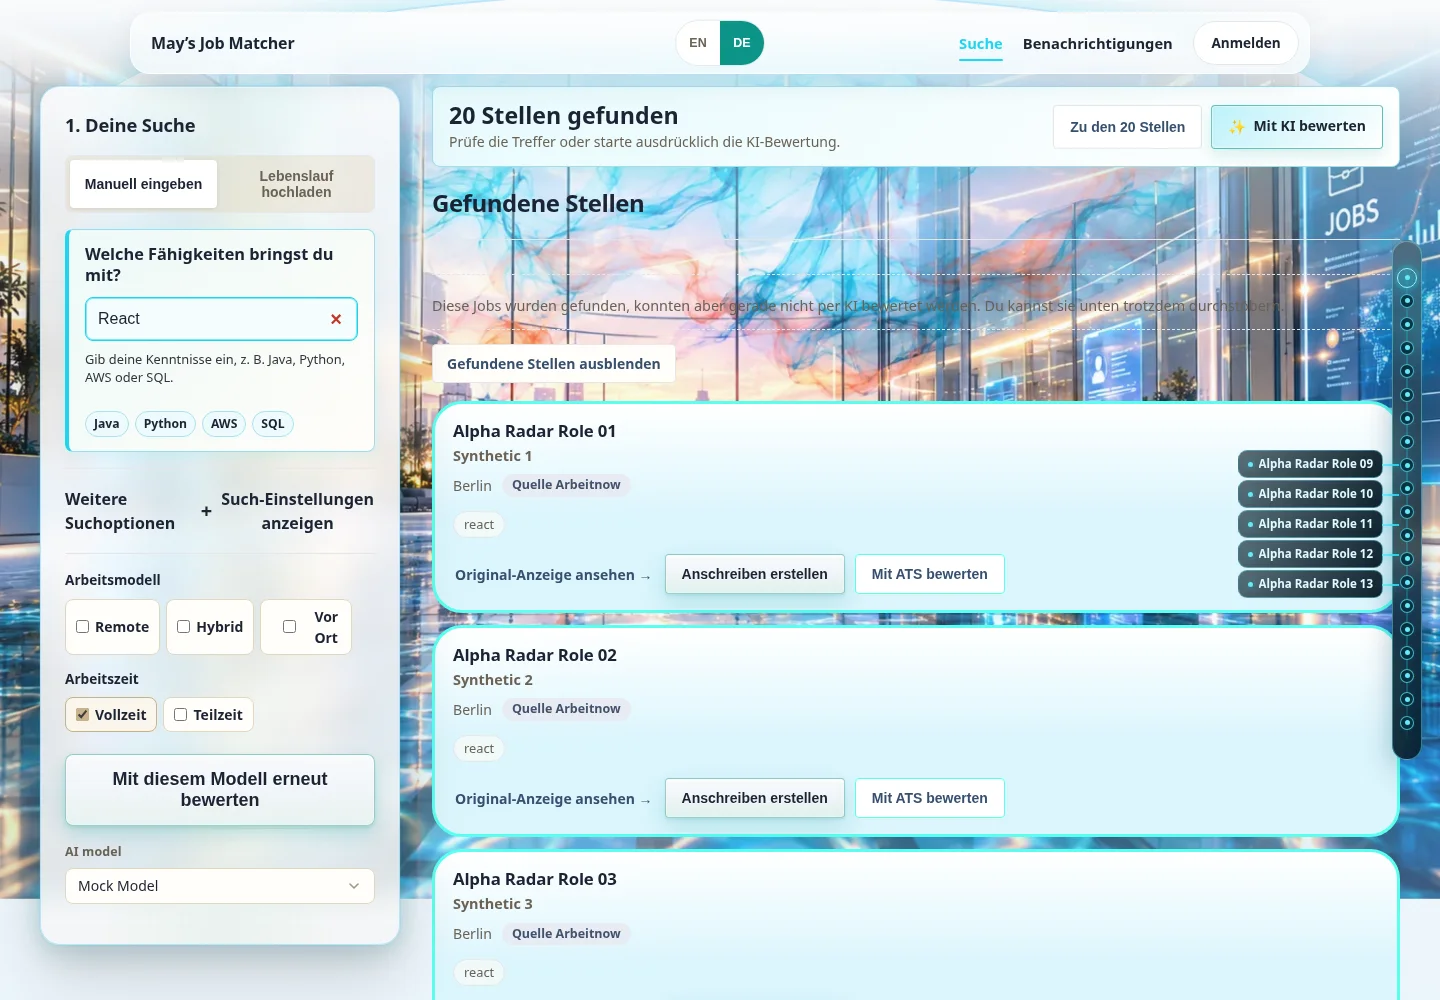
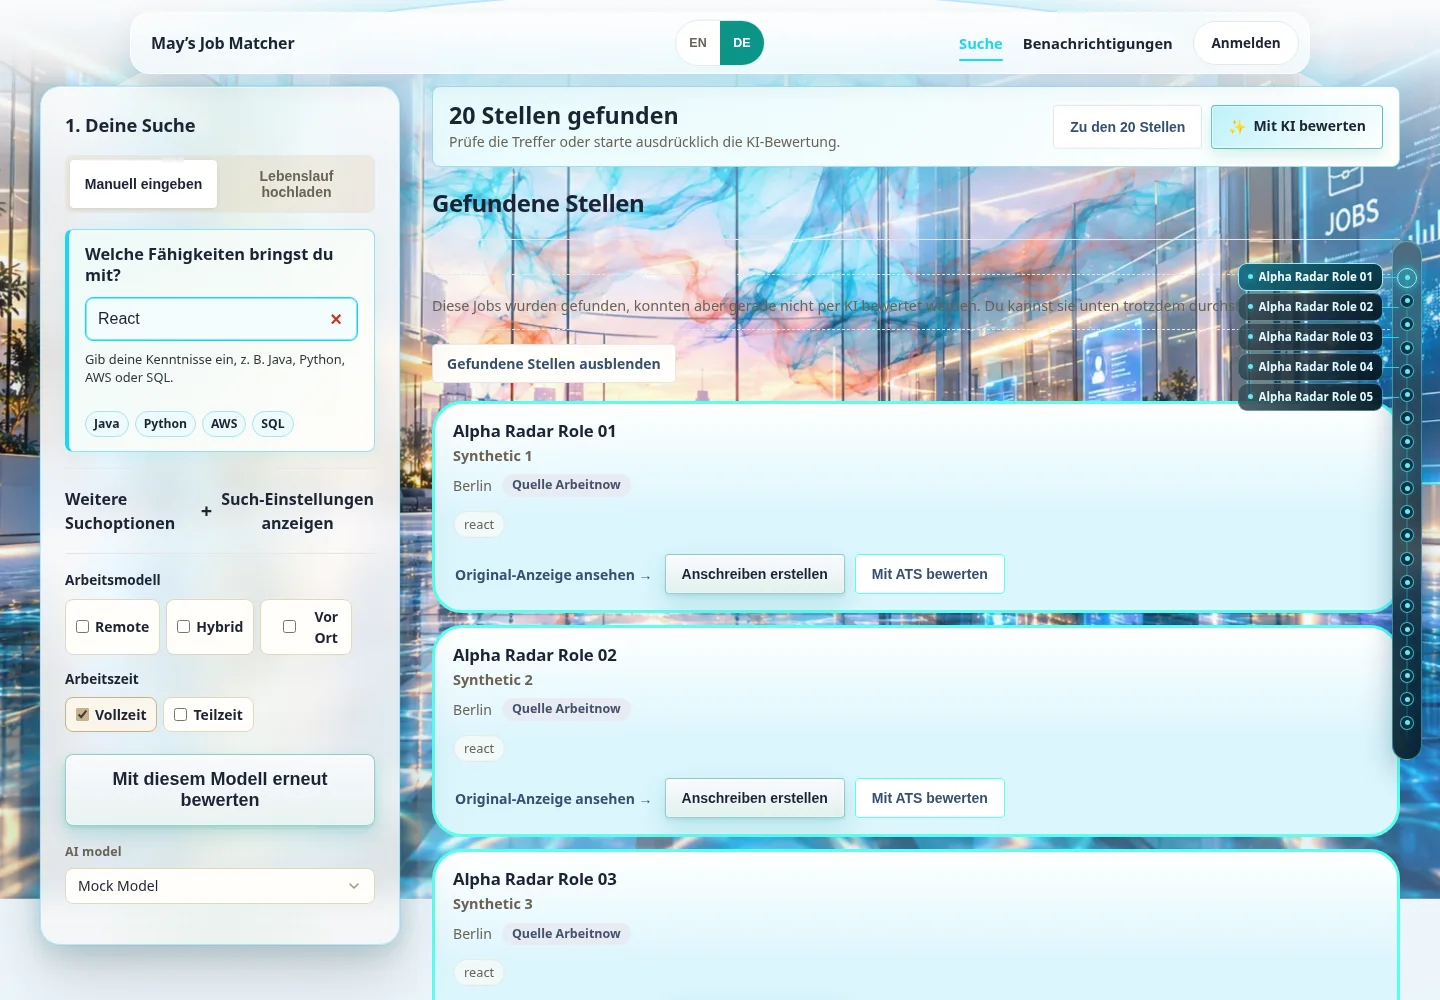
fix(search): make radar labels and mobile panel accessible

Changed region(s): [[0.8438, 0.248, 0.9688, 0.62]]

diff --git a/src/components/MatchRadar.tsx b/src/components/MatchRadar.tsx
@@ -49,6 +49,7 @@ function prefersReducedMotion(): boolean {
 export default function MatchRadar({ radarKey, onActivate }: Props) {
   const { t } = useLang();
   const railRef = useRef<HTMLDivElement>(null);
+  const mobileToggleRef = useRef<HTMLButtonElement>(null);
   const [items, setItems] = useState<RadarItem[]>([]);
   const [railHeight, setRailHeight] = useState(360);
   const [pointerInside, setPointerInside] = useState(false);
@@ -146,6 +147,24 @@ export default function MatchRadar({ radarKey, onActivate }: Props) {
     });
   };
 
+  const closePanel = useCallback((restoreFocus: boolean) => {
+    setPanelOpen(false);
+    if (restoreFocus) {
+      window.requestAnimationFrame(() => mobileToggleRef.current?.focus());
+    }
+  }, []);
+
+  useEffect(() => {
+    if (!panelOpen) return;
+    const onKeyDown = (event: KeyboardEvent) => {
+      if (event.key !== "Escape") return;
+      event.preventDefault();
+      closePanel(true);
+    };
+    document.addEventListener("keydown", onKeyDown);
+    return () => document.removeEventListener("keydown", onKeyDown);
+  }, [panelOpen, closePanel]);
+
   const nearestItem = (clientY: number): RadarItem | null => {
     const rail = railRef.current;
     if (!rail || items.length === 0) return items[0] ?? null;
@@ -237,30 +256,32 @@ export default function MatchRadar({ radarKey, onActivate }: Props) {
       {labelsVisible && (
         <div className="match-radar__labels" aria-hidden="true">
           {labelItems.map((item, index) => (
-            <button
+            <span
               key={item.id}
-              type="button"
               className={`match-radar__label${activeId === item.id ? " is-active" : ""}`}
               style={{ top: `${labelTops[index]}px` }}
               onClick={() => scrollToItem(item)}
-              tabIndex={-1}
             >
               <span className="match-radar__label-dot" />
               <span className="match-radar__label-text">{item.title}</span>
-            </button>
+            </span>
           ))}
         </div>
       )}
 
       <button
+        ref={mobileToggleRef}
         type="button"
         className="match-radar__mobile-toggle"
         aria-expanded={panelOpen}
         aria-controls="match-radar-panel"
         onClick={() => {
-          const next = !panelOpen;
-          setPanelOpen(next);
-          if (next) activate();
+          if (panelOpen) {
+            closePanel(false);
+            return;
+          }
+          setPanelOpen(true);
+          activate();
         }}
       >
         {panelOpen ? t("matchRadar.close") : t("matchRadar.open")}
@@ -276,7 +297,7 @@ export default function MatchRadar({ radarKey, onActivate }: Props) {
                   type="button"
                   className={activeId === item.id ? "is-active" : undefined}
                   onClick={() => {
-                    setPanelOpen(false);
+                    closePanel(true);
                     scrollToItem(item);
                   }}
                 >

diff --git a/src/components/MatchRadar.test.tsx b/src/components/MatchRadar.test.tsx
@@ -1,5 +1,7 @@
-import { describe, expect, it } from "vitest";
-import { layoutRadarLabels } from "./MatchRadar";
+import { afterEach, beforeEach, describe, expect, it, vi } from "vitest";
+import { cleanup, fireEvent, render, screen, waitFor } from "@testing-library/react";
+import { LangProvider } from "../i18n";
+import MatchRadar, { layoutRadarLabels } from "./MatchRadar";
 
 describe("JM-SEARCH-MATCH-RADAR-01 label layout", () => {
   it("keeps nearby labels separated", () => {
@@ -19,5 +21,28 @@ describe("JM-SEARCH-MATCH-RADAR-01 label layout", () => {
 
   it("returns no labels when there are no results", () => {
     expect(layoutRadarLabels([], 300)).toEqual([]);
+  });
+});
+
+describe("JM-SEARCH-MATCH-RADAR-01 accessibility", () => {
+  beforeEach(() => localStorage.setItem("mj-lang", "de"));
+  afterEach(() => {
+    cleanup();
+    localStorage.removeItem("mj-lang");
+  });
+
+  it("keeps the mobile panel closable with Escape and restores focus", async () => {
+    render(
+      <LangProvider>
+        <MatchRadar radarKey="accessibility-test" onActivate={vi.fn()} />
+      </LangProvider>
+    );
+    const toggle = screen.getByRole("button", { name: "Trefferübersicht" });
+    toggle.focus();
+    fireEvent.click(toggle);
+    expect(screen.getByRole("dialog", { name: "Treffer-Navigation" })).toBeInTheDocument();
+    fireEvent.keyDown(document, { key: "Escape" });
+    await waitFor(() => expect(screen.queryByRole("dialog", { name: "Treffer-Navigation" })).toBeNull());
+    await waitFor(() => expect(document.activeElement).toBe(toggle));
   });
 });

diff --git a/docs/reports/JM-SEARCH-MATCH-RADAR-01.md b/docs/reports/JM-SEARCH-MATCH-RADAR-01.md
@@ -1,6 +1,6 @@
 # JM-SEARCH-MATCH-RADAR-01
 
-**Status:** `READY FOR VISUAL REVIEW`
+**Status:** `READY FOR CONTROLLED MERGE REVIEW`
 
 **Branch:** `feature/jm-search-match-radar-01`
 
@@ -100,17 +100,34 @@ docs/reports/assets/JM-SEARCH-MATCH-RADAR-01/
 └── radar-panel-390.webp
 ```
 
-## 4. Tests und Build
+## 4. Accessibility-Korrektur
+
+Nach dem Visual Review wurde die Kombination aus `aria-hidden="true"` und
+klickbaren `<button>`-Labels entfernt:
+
+- die fünf Hover-Titel sind jetzt rein dekorative, nicht fokussierbare
+  `<span>`-Elemente innerhalb der `aria-hidden`-Schicht;
+- Klick auf einen Titel bleibt für Mausnutzer erhalten;
+- alle 20 Radar-Markierungen bleiben echte `<button>`-Elemente mit
+  `aria-label` und sind vollständig per Tastatur und Screenreader bedienbar;
+- keine automatische Fokussetzung beim Öffnen/Hover;
+- mobiles Trefferpanel: Escape schließt es und setzt den Fokus auf den
+  Auslöser zurück; auch ein Treffer-Klick führt den Fokus sinnvoll zurück;
+- ein zusätzlicher Komponententest prüft Escape und Fokus-Rückkehr;
+- Browser-E2E prüft `aria-hidden` ohne fokussierbare Labels, fokussierbare
+  Marker und die Fokus-Rückkehr auf 390/768 px.
+
+## 5. Tests und Build
 
 | Prüfung | Ergebnis |
 |---|---|
-| MatchRadar-/MatchCard-/RemainingCard-/Results-Tests | **37 PASS** |
-| Volle Vitest-Suite, seriell | **2040 PASS / 5 skipped** |
+| MatchRadar-/MatchCard-/RemainingCard-/Results-Tests | **38 PASS** |
+| Volle Vitest-Suite, seriell | **2041 PASS / 5 skipped** |
 | Production build | PASS |
 | `git diff --check` | PASS |
 | Secret-Scan | PASS |
 
-## 5. Grenzen
+## 6. Grenzen
 
 - Keine neuen Suchanfragen, keine KI-Bewertung, keine ATS-Aufrufe.
 - Keine Änderung an Jobdaten, Matching, Cards, Modal-Logik oder nativen
@@ -118,4 +135,4 @@ docs/reports/assets/JM-SEARCH-MATCH-RADAR-01/
 - Keine RIS-/AWS-/Cognito-/Consent-/Storage-Änderung.
 - Kein Main-Merge und kein Production-Deployment.
 
-`READY FOR VISUAL REVIEW`
+`READY FOR CONTROLLED MERGE REVIEW`

diff --git a/docs/AI_AUDITLOG.md b/docs/AI_AUDITLOG.md
@@ -1,3 +1,12 @@
+2026-11-23 · JM-SEARCH-MATCH-RADAR-01 — ACCESSIBILITY CORRECTION
+- Typ: A11y-Korrektur, Hover-Labels, mobiles Trefferpanel, Fokus-Rückkehr
+- Status: **READY FOR CONTROLLED MERGE REVIEW**
+- Branch: `feature/jm-search-match-radar-01`; Korrektur auf dem bestehenden Radar-Commit; kein Main-Merge, kein Deployment.
+- Problem/Korrektur: Die dekorativen, klickbaren Hover-Titel lagen als `<button>` in `aria-hidden="true"`. Sie sind jetzt nicht fokussierbare `<span>`-Elemente (Mausklick bleibt); die 20 Radar-Marker bleiben echte, per Tastatur und Screenreader bedienbare `<button>`-Elemente mit `aria-label`/`aria-current`. Keine automatische Fokussetzung.
+- Mobile: Escape schließt das Trefferpanel und setzt den Fokus auf den Auslöser zurück; Treffer-Klick schließt ebenfalls mit sinnvoller Fokus-Rückkehr. Neuer Komponententest und Browser-E2E für 390/768 px.
+- Tests: fokussiert **38 PASS**; serielle Vollsuite **2041 PASS / 5 skipped**; Build/Diff/Secret-Scan PASS; Browser-E2E inkl. Label-/Marker-A11y und Escape-Fokus erneut PASS.
+- Grenzen: unverändertes Hover-/Radar-Design, keine Such-/KI-/ATS-Anfragen, keine RIS/AWS/Cognito/Consent/Storage-Änderung; keine echten Daten.
+
 2026-11-23 · JM-SEARCH-MATCH-RADAR-01 — FLOATING RESULT RADAR
 - Typ: Suchseiten-Navigation, Match-Radar, Hover-Labels, Wheel/Tastatur/Mobile, Browser-E2E
 - Status: **READY FOR VISUAL REVIEW**
